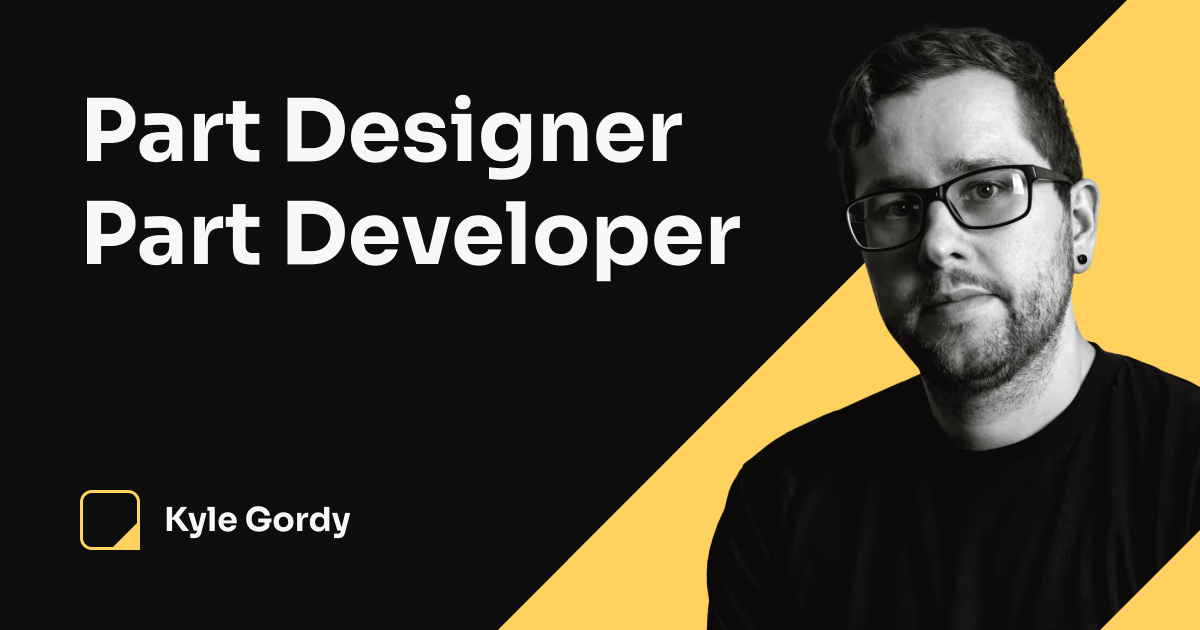
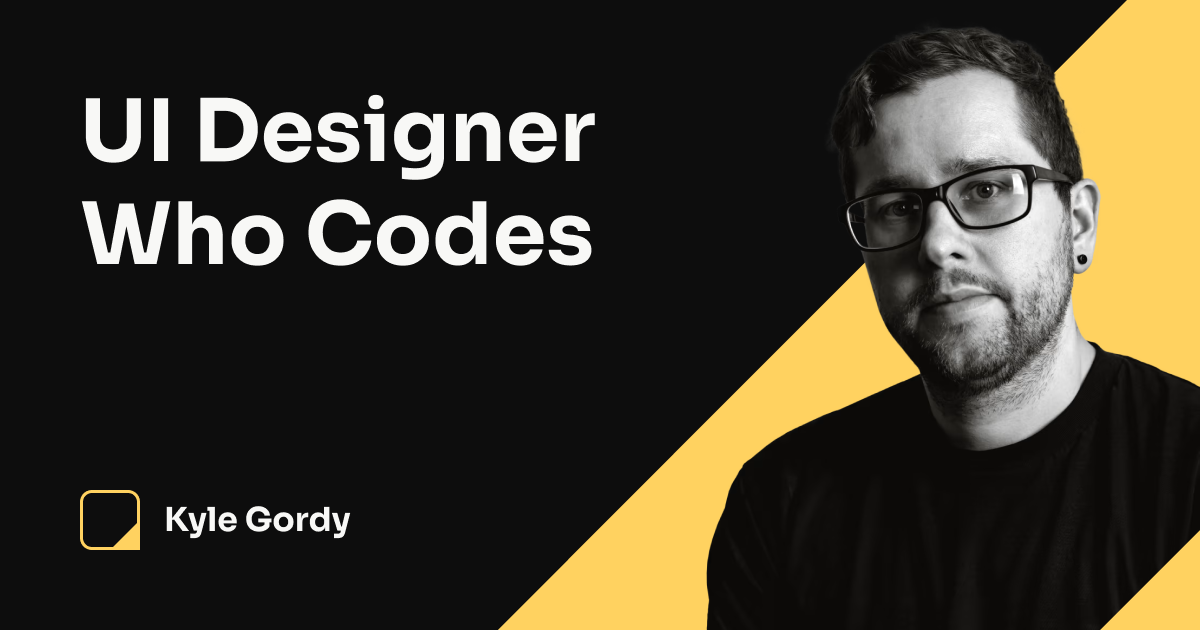
Update open graph image and site description

Changed region(s): [[0.0617, 0.1508, 0.6167, 0.4524]]

diff --git a/src/config.ts b/src/config.ts
@@ -2,6 +2,6 @@
 // You can import this data from anywhere in your site by using the `import` keyword.
 
 export const SITE_TITLE = "Kyle Gordy";
-export const SITE_DESCRIPTION = "I'm a multifaceted designer/developer with 10+ years of experience.";
+export const SITE_DESCRIPTION = "I'm a multifaceted UI Designer/Frontend Developer with 10+ years of experience.";
 export const SITE_OG_IMG = "https://kgordy.com/assets/og-image.png";
 export const CHAT_BOOKING_URL = "https://calendly.com/kylegordy/30min";
